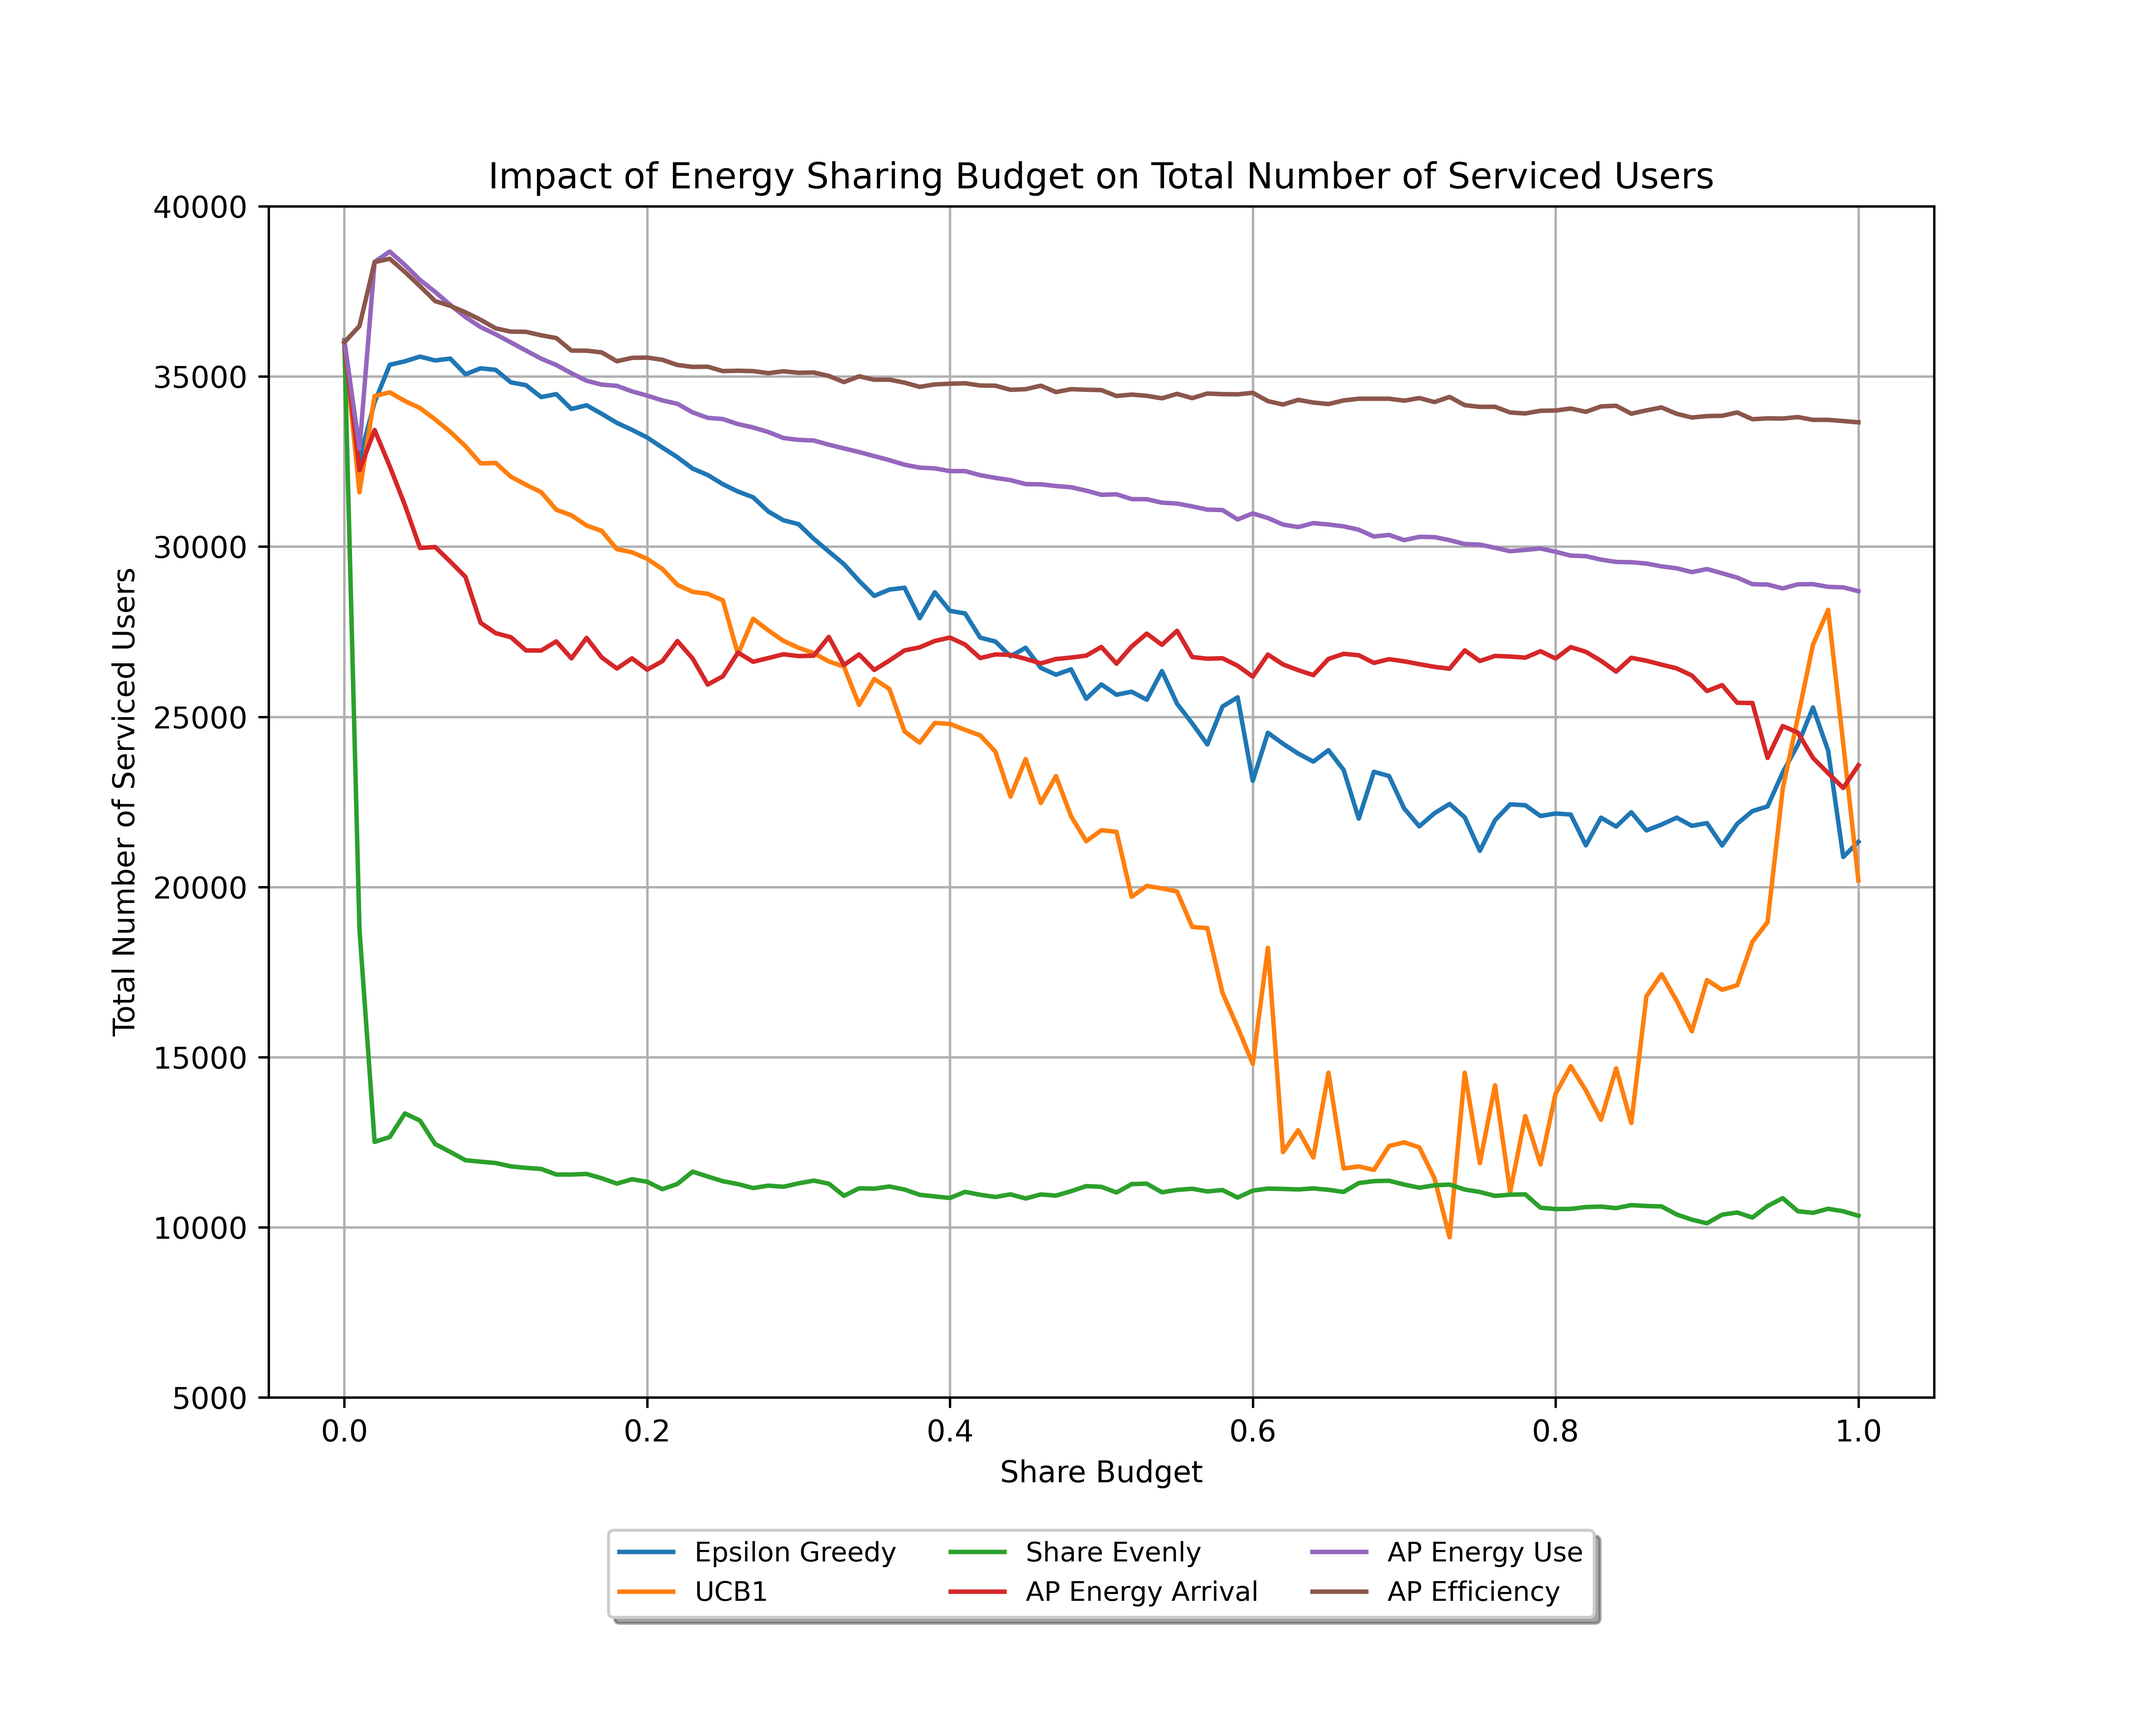
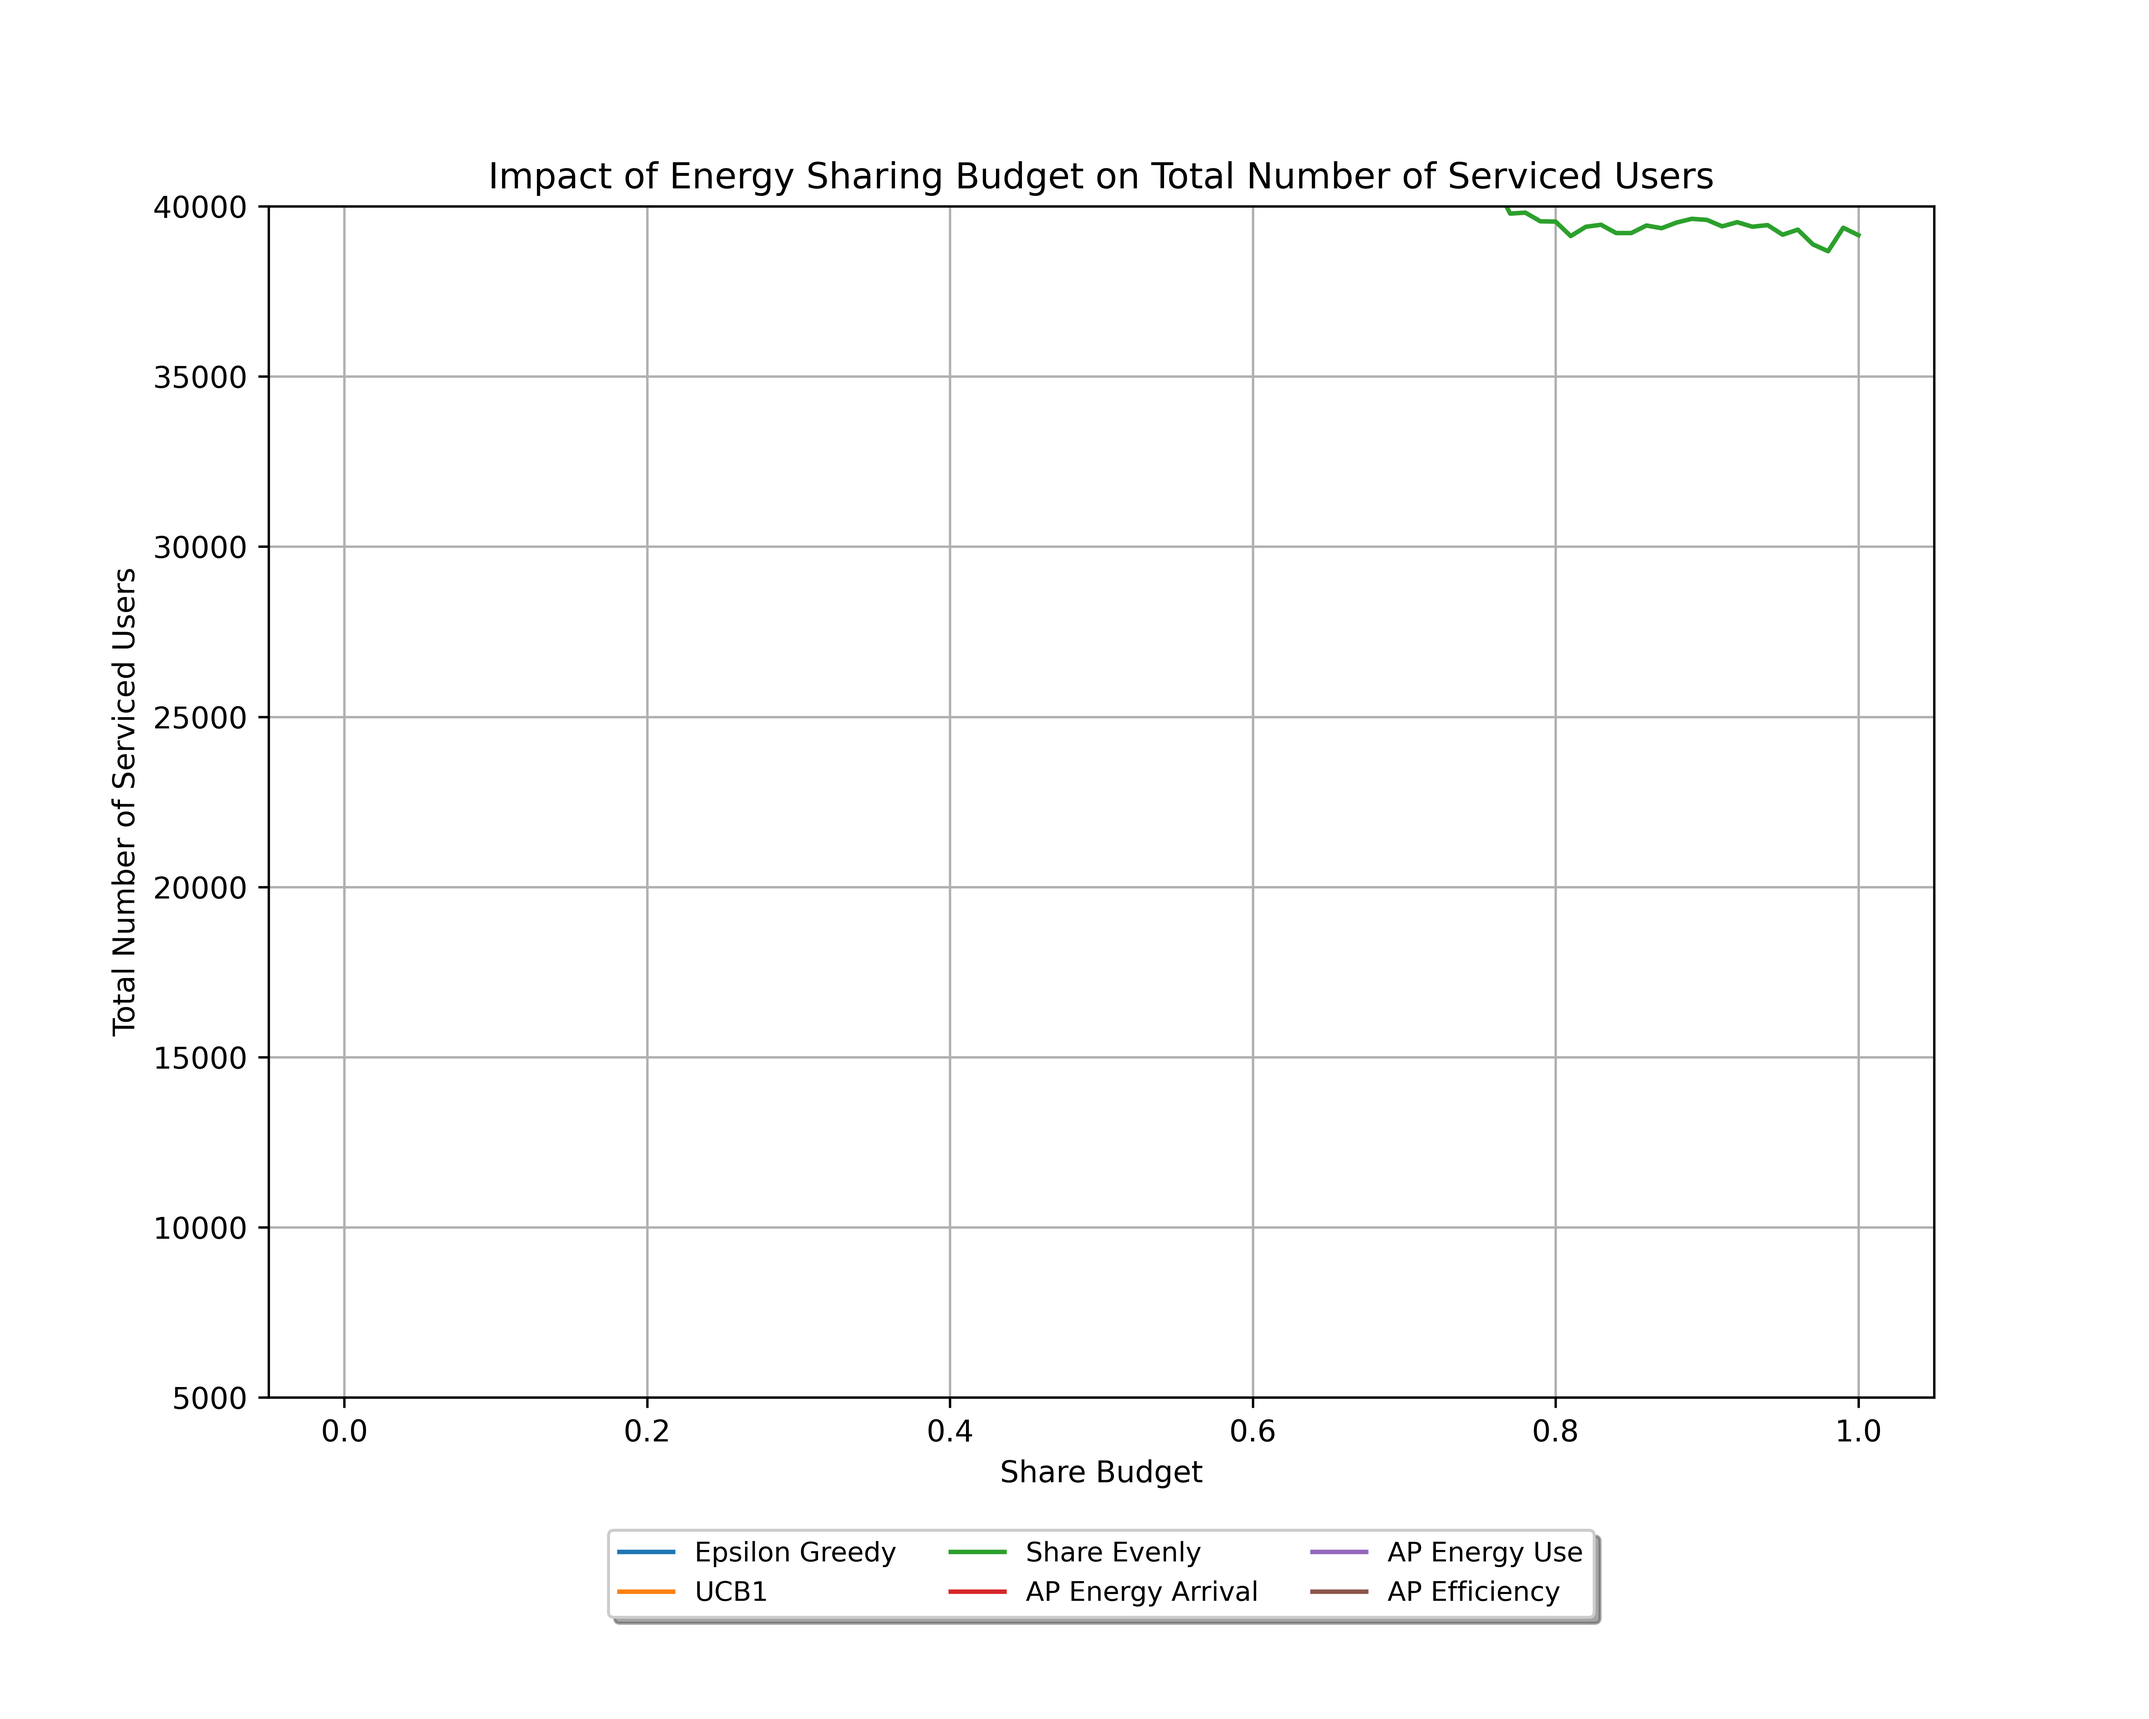
Alogrithm Compare T=6months

diff --git a/network_simulator/simulator.py b/network_simulator/simulator.py
@@ -1,0 +1,120 @@
+from multiprocessing import Pool
+import os
+
+from network_simulator.components import simulator
+from network_simulator.helpers import writeSimCache, readSimCache
+
+def sim_exist(filename):
+    """ Check if simulation with the same parameters have been ran before.
+
+    """
+
+    if os.path.exists(filename):
+        run_again = input("Remove previous data and start again? (y/n)")
+
+        if run_again.lower() == "y":
+            return 0
+        else:
+            return 1
+    else:
+        return 0
+
+""" Cache File Format
+"axes1" : {
+    "param" : "Epsilon Greedy",
+    "result" : data,
+    "last_var" : run_param,
+}
+"""
+def readPartCache(filename, mode):
+    """ Read Cache from previous simulation(s) that was ran partially.
+
+    """
+
+    partrun = readSimCache(filename + "-part")
+
+    # Find the last saved simulation run
+    lastkey = list(partrun.keys())[-1:]
+    last_var = partrun[lastkey]["last_var"]
+    last_param = partrun[lastkey]["param"]
+
+
+    return last_param, last_var, partrun
+
+def multirun():
+    return simulator(g_init_vars, g_aplist, g_usrlist)
+
+
+def simulate(init_vars, aplist, usrlist, mode):
+    global g_init_vars, g_aplist, g_usrlist
+
+    g_init_vars = init_vars
+    g_aplist = aplist
+    g_usrlist = usrlist
+
+    fpath = mode["mode"]
+    # if sim_exist(fpath):
+    #     readPartCache(fpath)
+    testcache = {
+        "axes1" : {
+            "param" : "Epsilon Greedy",
+            "result" : [0, 1, 2, 3],
+            "last_var" : 0.05,
+        },
+        "axes2" : {
+            "param" : "UCB",
+            "result" : [0, 1, 2, 3],
+            "last_var" : 0.05,
+        },
+        "axes3" : {
+            "param" : "Share Evenly",
+            "result" : [0, 1, 2, 3],
+            "last_var" : 0.05,
+        }
+    }
+    writeSimCache(fpath + "-part", testcache)
+    last_param, last_var, partrun = readPartCache(fpath, mode)
+
+    variables = mode["range"]
+    total_runs = range(mode["total_runs"])
+    counter = 1
+    simcache = {}
+
+    try:
+        for axes in mode["axes"].values():
+            if axes["param"] == last_param:
+                cont = 1
+
+            if cont == 1:
+                for key in ["ENERGY_POLICY", "SHARE_ENERGY"]:
+                    init_vars[key] = axes[key]
+                    if axes.get("SMART_PARAM") != None:
+                        init_vars["SMART_PARAM"] = axes.get("SMART_PARAM")
+
+                _avg_serviced_users = []
+
+                for value in variables:
+                    init_vars[mode["change"]] = value
+
+                    pool = Pool(10)
+
+                    _serviced_users = [pool.apply_async(multirun, ()) for run in total_runs]
+                    _avg_serviced_users.append(sum([result.get() for result in _serviced_users]) / len(total_runs))
+
+                dictstr = "axes" + str(counter)
+
+                simcache[dictstr]["param"] = axes["param"]  
+                simcache[dictstr]["result"] = _avg_serviced_users
+
+    except KeyboardInterrupt:
+        # Save cache and exit
+        dictstr = "axes" + str(counter)
+
+        simcache[dictstr]["param"] = axes["param"]  
+        simcache[dictstr]["result"] = _avg_serviced_users
+
+
+
+        exit()
+
+

diff --git a/network_simulator/test/testPartialRuns.py b/network_simulator/test/testPartialRuns.py
@@ -1,0 +1,62 @@
+import numpy as np
+import matplotlib.pyplot as plt
+from network_simulator.simulator import simulate
+
+def algorithmCompare(init_vars, aplist, usrlist):
+
+    # Dict to store simulation parameters
+    _sim_mode = {
+        "mode" : "AlgorithmCompare",
+        "x-axis" : "Share Budget",
+        "title" : "Impact of Energy Sharing Budget on Total Number of Serviced Users",
+        "range" : np.arange(0, 1.01, 0.1),
+        "total_runs" : 20,
+        "change" : "ENERGY_BUDGET",
+        "sim_vars" : init_vars,
+    }
+
+    _sim_axes = {
+        "axes1" : {
+            "param" : "Epsilon Greedy",
+            "ENERGY_POLICY" : 2,
+            "SHARE_ENERGY" : 5,
+            "SMART_PARAM" : [0.01, 12]
+        },
+        "axes2" : {
+            "param" : "UCB1",
+            "ENERGY_POLICY" : 2,
+            "SHARE_ENERGY" : 6,
+            "SMART_PARAM" : [2, 12]
+        },
+        "axes3" : {
+            "param" : "Share Evenly",
+            "ENERGY_POLICY" : 2,
+            "SHARE_ENERGY" : 1,
+        },
+        "axes4" : {
+            "param" : "AP Energy Arrival",
+            "ENERGY_POLICY" : 2,
+            "SHARE_ENERGY" : 2,
+        },
+        "axes5" : {
+            "param" : "AP Energy Use",
+            "ENERGY_POLICY" : 2,
+            "SHARE_ENERGY" : 3,
+        },
+        "axes6" : {
+            "param" : "AP Efficiency",
+            "ENERGY_POLICY" : 2,
+            "SHARE_ENERGY" : 4,
+        },
+    }
+
+    # Store axes
+    _sim_mode["axes"] = _sim_axes
+
+    simulate(init_vars, aplist, usrlist, _sim_mode)
+
+
+    return plt
+
+
+

diff --git a/main_testing.py b/main_testing.py
@@ -15,6 +15,7 @@ from network_simulator.test.testShareBudget import shareBudget
 from network_simulator.test.testMultiArmBandit import mab
 from network_simulator.test.testMultiProcessing import multiSimulation
 from network_simulator.test.testSeriesRatioMP import seriesRatioMP
+from network_simulator.test.testPartialRuns import algorithmCompare 
 from network_simulator.helpers import genDescendUnitArray, writeGeneratedComponents, readGeneratedComponents
 
 
@@ -110,11 +111,13 @@ def main():
     # plt_budgettest = shareBudget(init_vars, aplist, usrlist_ppp)
     # plt_budgettest.savefig('figures/sharebudget.png')
 
-    plt_mabtest = mab(init_vars, aplist, usrlist_ppp)
-    plt_mabtest.savefig('figures/mab-ucb.png')
+    # plt_mabtest = mab(init_vars, aplist, usrlist_ppp)
+    # plt_mabtest.savefig('figures/mab-ucb.png')
 
     # plt_mp = multiSimulation(init_vars, aplist, usrlist_ppp)
     # plt_mp.savefig('figures/mpsharebudget.png')
+
+    algorithmCompare(init_vars, aplist, usrlist_ppp)
 
 if __name__ == "__main__":
     main()

diff --git a/network_simulator/test/testAlgorithmCompare.py b/network_simulator/test/testAlgorithmCompare.py
@@ -17,7 +17,7 @@ def algorithmCompare(init_vars, aplist, usrlist):
     g_usrlist = usrlist
 
 
-    plot_from_saved = 0
+    plot_from_saved = 1
     total_runs = range(20)
     sharebudget = np.arange(0, 1.01, 0.01)
     _output = {}

diff --git a/main.py b/main.py
@@ -81,8 +81,8 @@ def main():
 
     Set to 0 to use existing parameters.
     """
-    gen_vars = 1
-    save = 1
+    gen_vars = 0
+    save = 0
 
     file = Path('generated/init_vars.data')
 
